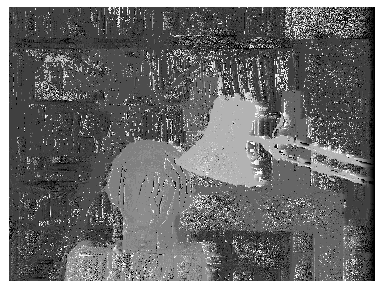
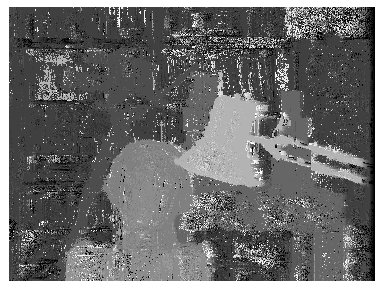
fixed a bug
size of window for census cost

diff --git a/ADCensus_CMake/libStereo/patch.cpp b/ADCensus_CMake/libStereo/patch.cpp
@@ -39,10 +39,10 @@ float census(const int x1, const int y1, const int x2, const int y2, const PARAM
 	for(int color = 0; color < 3; ++color){
 		const float p1ref = *(params.im[0].pixel(x1, y1)+color*params.wh);
 		const float p2ref = *(params.im[1].pixel(x2, y2)+color*params.wh);
-		for(int y = -params.winY; y <= params.winY; ++y) {
-			const float* p1 = params.im[0].pixel(x1-params.winX, y1+y)+color*params.wh;
-			const float* p2 = params.im[1].pixel(x2-params.winX, y2+y)+color*params.wh;
-			for(int x = -params.winX; x <= params.winX; ++x){
+		for(int y = -params.winY/2; y <= params.winY/2; ++y) {
+			const float* p1 = params.im[0].pixel(x1-params.winX/2, y1+y)+color*params.wh;
+			const float* p2 = params.im[1].pixel(x2-params.winX/2, y2+y)+color*params.wh;
+			for(int x = -params.winX/2; x <= params.winX/2; ++x){
 				bool dif = (*p1++ - p1ref)*(*p2++ - p2ref) < 0;
 				if(dif){
 					dist += 1.0;

diff --git a/ADCensus_CMake/stereoDense/stereoDense.cpp b/ADCensus_CMake/stereoDense/stereoDense.cpp
@@ -100,7 +100,6 @@ static void disparity(LWImage<float> im1, LWImage<float> im2,
 					  const int grayMin, const int grayMax,
 					  PARAMETERS &params) {
 	const int h = params.h, w = params.w;
-
 	// tables
 	float* costVol = new float[h*w*(dMax-dMin+1)];
 	float* lowCosts = new float[h*w];
